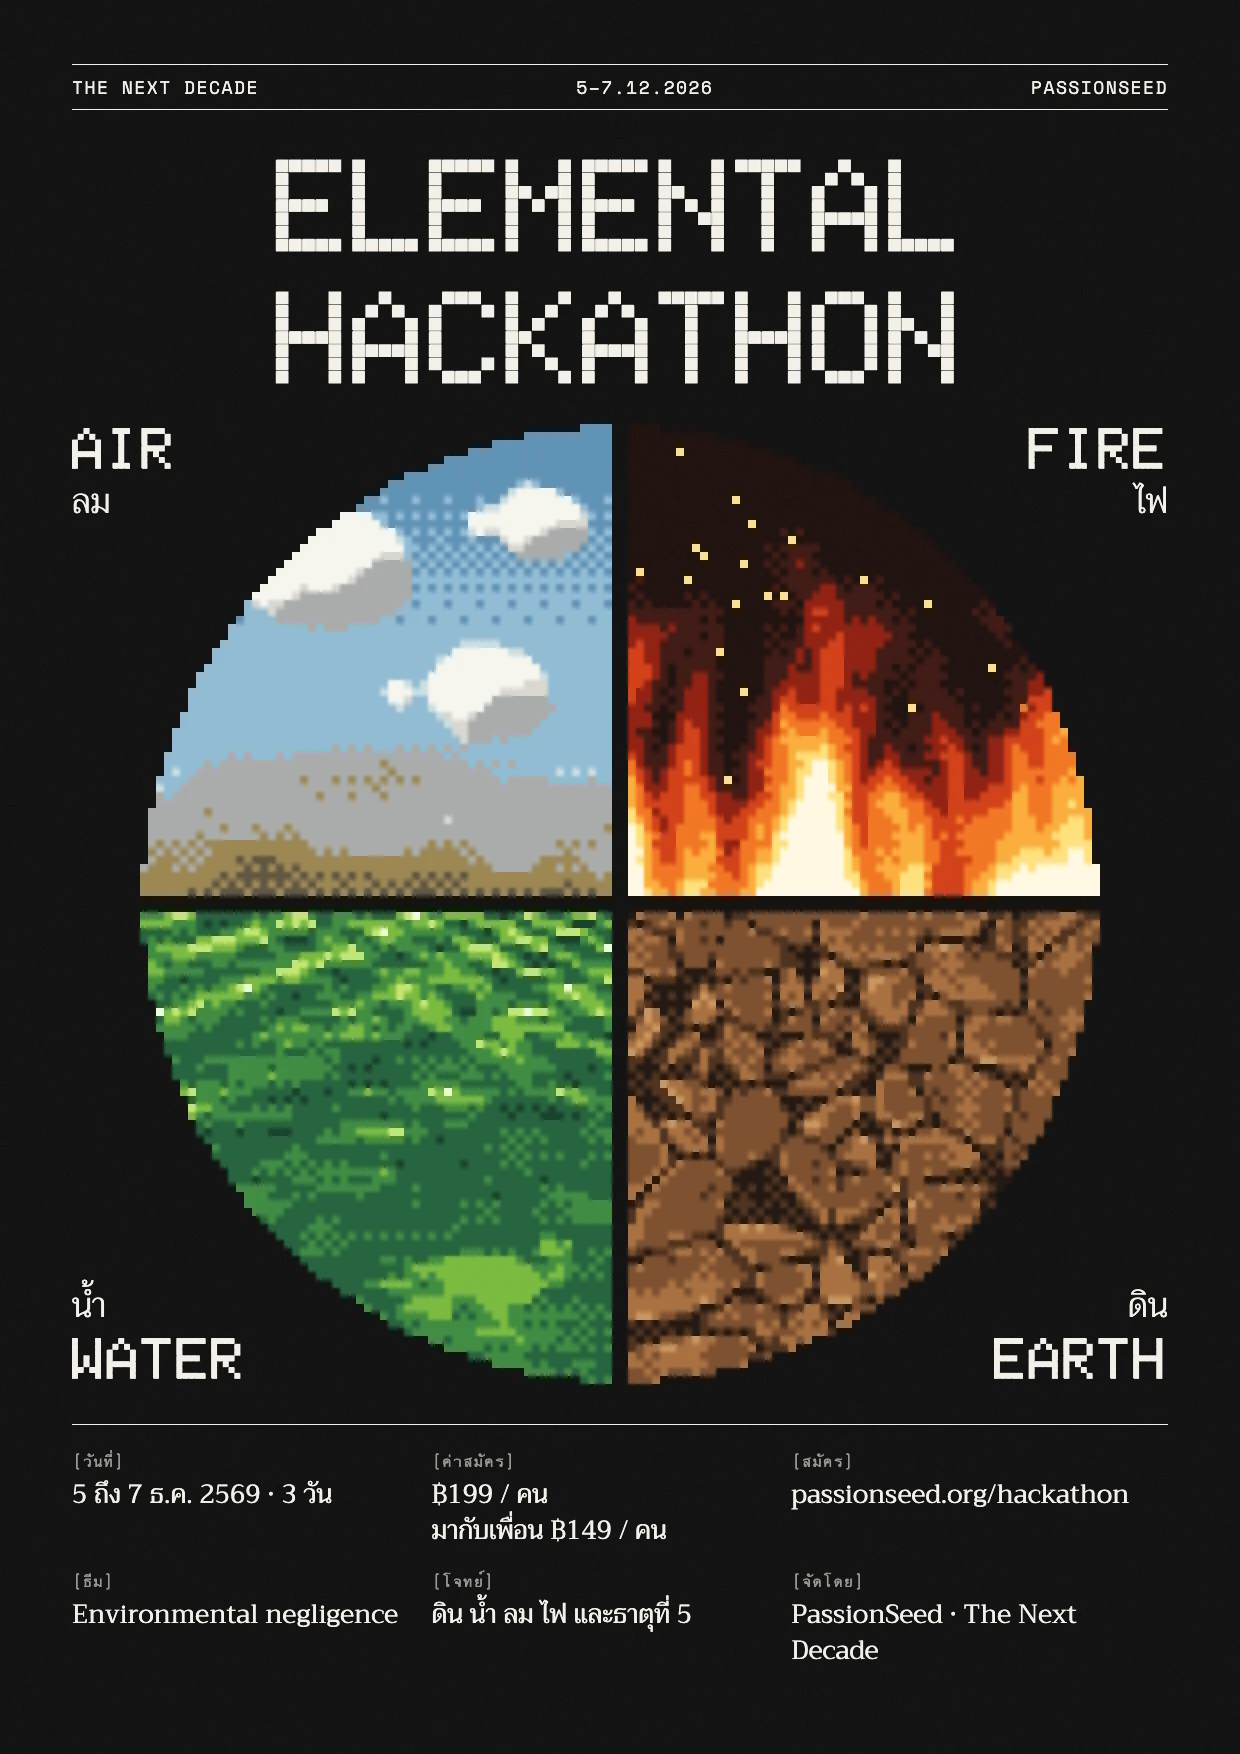
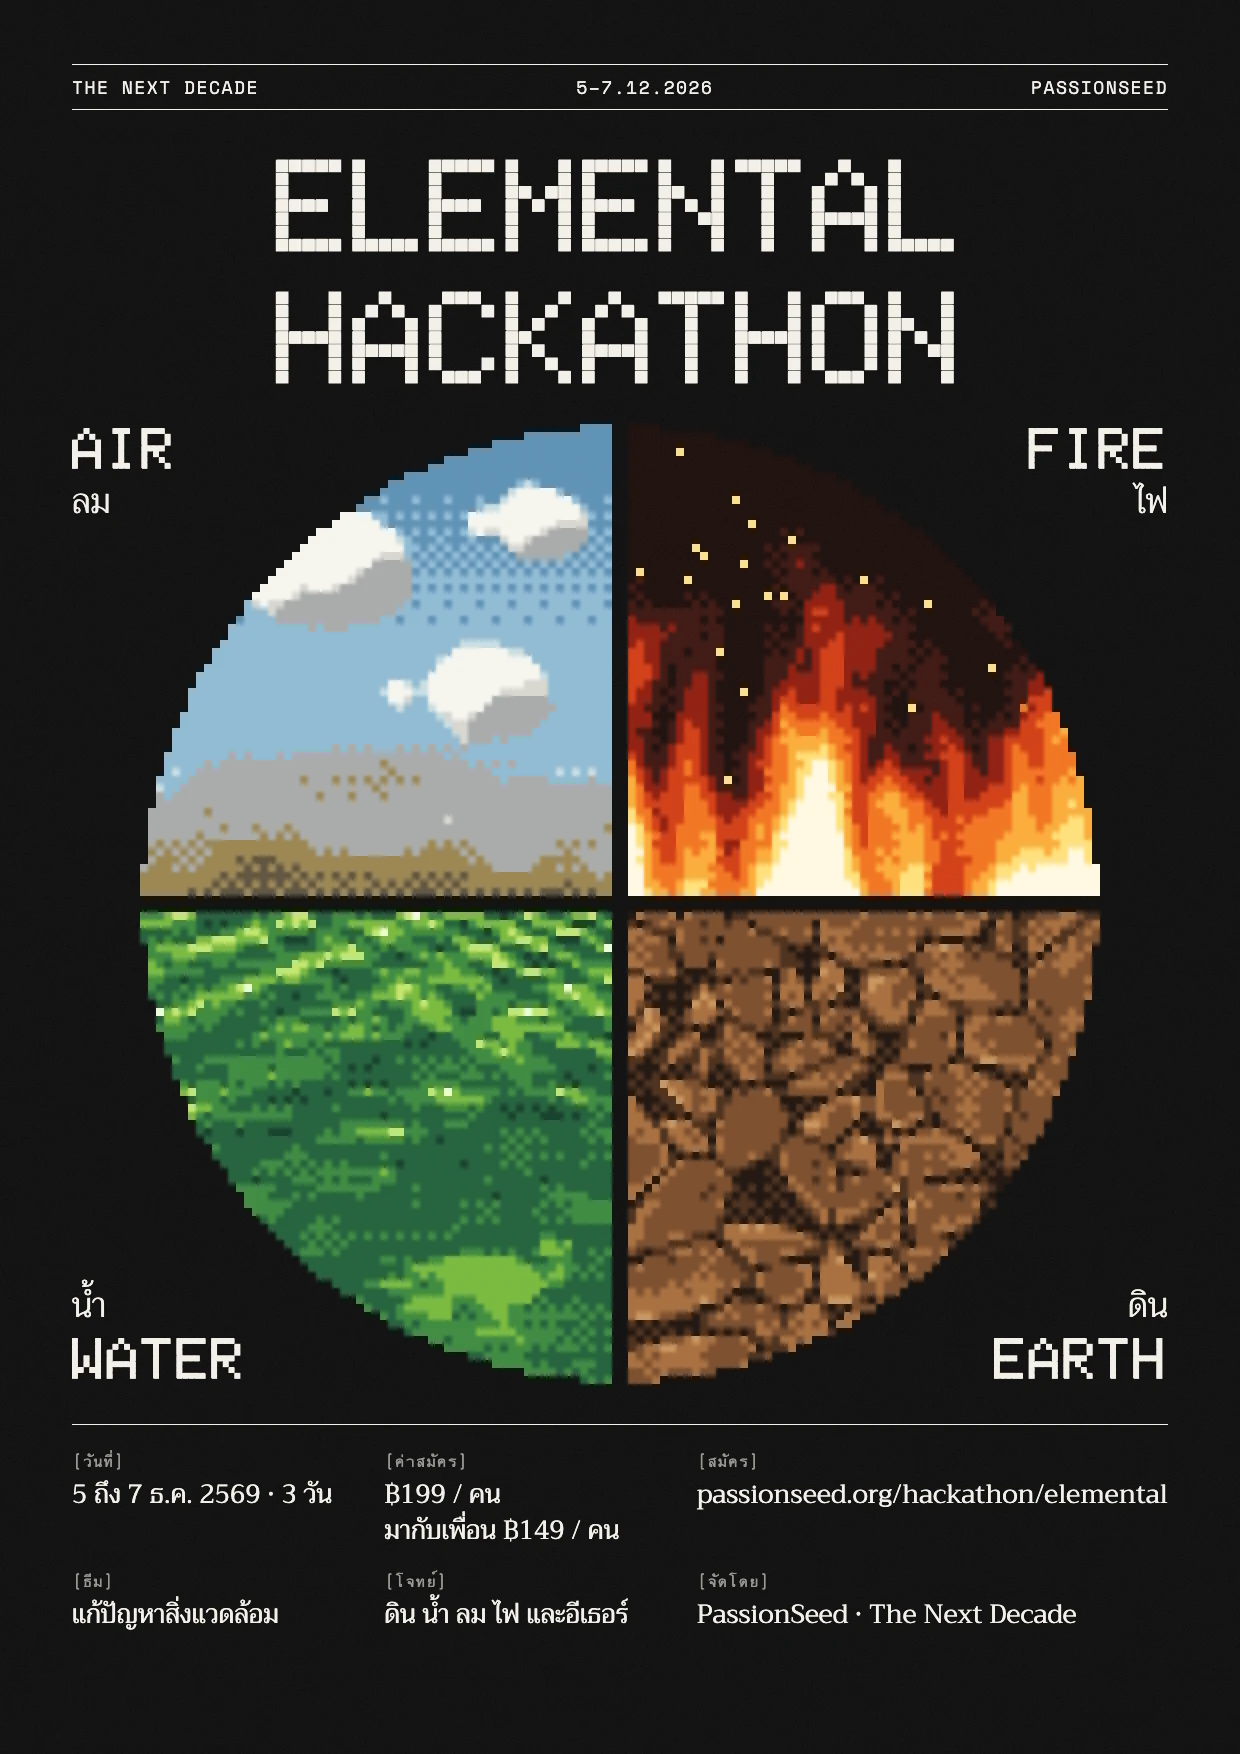
Elemental: the fifth element is อีเธอร์, and the sponsor deck pitches fixing the environment (#385)
* Slide 2: the element prize line reads 5 รางวัลสำหรับผู้ชนะแต่ละธาตุ

Angpao, 2026-11-24. The count comes from the five elements in facts.ts.
The prize list sits 10px closer to the total so the longer line fits the
margin.

* Elemental: the fifth element is อีเธอร์, and the pitch is about fixing the environment

Angpao, 2026-11-24:
- "always use อีเธอร์": the fifth element's Thai name, replacing
  ธาตุที่มองไม่เห็น (Big, 2026-11-21), in facts.ts, the hackathon page, the
  sponsor deck, slide 2 and the A4 poster.
- "the problem is not about human or corporate make env worst just about
  fixing the environment": the sponsor deck's theme sentence says so, its
  examples name the problem and not who caused it, and the printed theme
  is แก้ปัญหาสิ่งแวดล้อม instead of Environmental negligence.
- "add vector to page 10": the benefits page gets three pixel drawings of
  where a sponsor's logo shows up: poster, slides, report.

---------

Changed region(s): [[0.3065, 0.8312, 0.8581, 0.9544], [0.5516, 0.8312, 0.95, 0.862], [0.0613, 0.8928, 0.2758, 0.9236]]

diff --git a/components/hackathon/elemental/sponsor/SponsorDeck.tsx b/components/hackathon/elemental/sponsor/SponsorDeck.tsx
@@ -4,7 +4,7 @@ import type { ReactNode } from "react";
 import { EL, EL_FONT } from "@/components/hackathon/poster/elemental/brand";
 import { ELEMENTAL, prizeTotal, thaiDayRange } from "@/components/hackathon/poster/elemental/facts";
 
-import { PixelArrow, PixelIcon, type IconName } from "./DeckArt";
+import { BenefitsArt, PixelArrow, PixelIcon, type IconName } from "./DeckArt";
 import { DeckEditor } from "./DeckEditor";
 import { PrintButton } from "./PrintButton";
 
@@ -163,11 +163,14 @@ function BenefitLabel({ icon, children }: { icon: IconName; children: ReactNode 
  * list: teams pick any problem of that kind (Angpao, 2026-11-20: e.g. fire
  * covers fire hazards in a factory or a bar). Kinds of harm and most examples:
  * private/hackathon-elemental-theme-and-rules.md.
+ * The examples name the problem, not who caused it: the hackathon is about
+ * fixing the environment, not about people or companies making it worse
+ * (Angpao, 2026-11-24).
  */
 const ELEMENTS: { key: "water" | "earth" | "air" | "fire" | "aether"; kind: string; examples: string }[] = [
-  { key: "earth", kind: "ภัยจากขยะ ดิน และสารพิษ", examples: "เช่น ขยะอิเล็กทรอนิกส์ การลักลอบทิ้งหรือฝังกลบขยะ สารเคมีตกค้างในพื้นที่เกษตร ขยะที่ไม่ได้คัดแยก" },
-  { key: "water", kind: "ภัยในแหล่งน้ำ", examples: "เช่น น้ำเสียจากโรงงาน สารปนเปื้อนในแม่น้ำ ไมโครพลาสติก น้ำที่คนใช้ดื่มและทำเกษตร" },
-  { key: "air", kind: "ภัยในอากาศที่เราหายใจ", examples: "เช่น ฝุ่น PM2.5 ควันจากการเผาในที่โล่ง ไอเสียจากโรงงานใกล้บ้าน การปล่อยคาร์บอน" },
+  { key: "earth", kind: "ภัยจากขยะ ดิน และสารพิษ", examples: "เช่น ขยะอิเล็กทรอนิกส์ สารเคมีตกค้างในพื้นที่เกษตร ขยะที่ไม่ได้คัดแยก" },
+  { key: "water", kind: "ภัยในแหล่งน้ำ", examples: "เช่น น้ำเสีย สารปนเปื้อนในแม่น้ำ ไมโครพลาสติก น้ำที่คนใช้ดื่มและทำเกษตร" },
+  { key: "air", kind: "ภัยในอากาศที่เราหายใจ", examples: "เช่น ฝุ่น PM2.5 ควันจากการเผาในที่โล่ง ไอเสีย การปล่อยคาร์บอน" },
   { key: "fire", kind: "ภัยจากไฟและความร้อน", examples: "เช่น อัคคีภัยในโรงงาน ผับบาร์ หรืออาคาร โกดังเก็บสารเคมี การเผาไร่และป่า" },
   { key: "aether", kind: "ภัยจาก AI โซเชียล และเทคโนโลยี", examples: "เช่น แอปที่ออกแบบให้เลื่อนไม่หยุด ข่าวปลอมและคลิป AI ดีปเฟก พลังงานที่ AI ใช้" },
 ];
@@ -350,7 +353,7 @@ export function SponsorDeck() {
               </span>
             </h1>
             <p className="m-0 mt-2 text-[24px] sm:text-[32px]" style={{ fontFamily: EL_FONT.display, fontWeight: 300 }}>
-              ดิน · น้ำ · ลม · ไฟ · ธาตุที่มองไม่เห็น
+              ดิน · น้ำ · ลม · ไฟ · อีเธอร์
             </p>
           </div>
 
@@ -432,7 +435,7 @@ export function SponsorDeck() {
         <Tag n="02 TRACKS" />
         <H2>หัวข้อการแข่งขัน: 5 ธาตุ</H2>
         <Body>
-          หัวข้อหลักคือ Environmental negligence: ธุรกิจที่ละเลยจนทำร้ายสิ่งแวดล้อมและผู้คน เราแบ่งปัญหาออกเป็น 5 ธาตุ ตัวอย่างด้านล่างเป็นแค่จุดเริ่มต้น
+          หัวข้อหลักคือการแก้ปัญหาสิ่งแวดล้อม เราแบ่งปัญหาออกเป็น 5 ธาตุ ตัวอย่างด้านล่างเป็นแค่จุดเริ่มต้น
           ทีมเลือกปัญหาใดก็ได้ในธาตุนั้น หรือรวมหลายธาตุ แล้วพัฒนาผลงานที่ช่วยคนจริงอย่างน้อย 1 คน
         </Body>
         <div className="mt-8 grid grid-cols-2 gap-4 sm:grid-cols-5">
@@ -772,7 +775,13 @@ export function SponsorDeck() {
       {/* 09 Benefits */}
       <Section id="benefits" tone="paper">
         <Tag n="09 BENEFITS" light />
-        <H2>สิทธิประโยชน์ของผู้สนับสนุน</H2>
+        <div className="relative">
+          <H2>สิทธิประโยชน์ของผู้สนับสนุน</H2>
+          {/* Where a sponsor's logo shows up: poster, slides, report (Angpao, 2026-11-24: "add vector to page 10"). */}
+          <div className="absolute bottom-0 right-0 hidden sm:block">
+            <BenefitsArt />
+          </div>
+        </div>
         <div className="mt-8 grid grid-cols-2 gap-6 md:grid-cols-4">
           <Stat light big={IG.followers} label="ผู้ติดตาม Instagram ของ PassionSeed" icon={<PixelIcon name="people" color={EL.ink} size={30} />} />
           <Stat light big={IG.reach} label="บัญชีที่เห็นโพสต์ของเราใน 30 วัน" icon={<PixelIcon name="eye" color={EL.ink} size={30} />} />

diff --git a/components/hackathon/elemental/sponsor/DeckArt.tsx b/components/hackathon/elemental/sponsor/DeckArt.tsx
@@ -1,3 +1,5 @@
+import { EL } from "@/components/hackathon/poster/elemental/brand";
+
 /**
  * Small pixel-art icons for the sponsor deck, drawn as SVG squares so they
  * stay sharp in print and match the key visual's pixel look.
@@ -65,6 +67,88 @@ export function PixelArrow({ color, size = 18 }: { color: string; size?: number 
   return (
     <svg width={size} height={size} viewBox="0 0 5 5" aria-hidden="true" shapeRendering="crispEdges" style={{ display: "block" }}>
       {rows.flatMap((row, y) => Array.from(row).map((c, x) => (c === "#" ? <rect key={`${x}-${y}`} x={x} y={y} width={1} height={1} fill={color} /> : null)))}
+    </svg>
+  );
+}
+
+/**
+ * Where a sponsor's logo shows up, as three pixel drawings: the poster
+ * before the event, the slides during it, the report after it. The coloured
+ * block in each is the logo, in the three package colours.
+ */
+const BENEFIT_POSTER = [
+  "################",
+  "#..............#",
+  "#..........y...#",
+  "#.........yy...#",
+  "#.........oy...#",
+  "#........ooo...#",
+  "#........ooo...#",
+  "#....s.........#",
+  "#...sss........#",
+  "#..sssss...s...#",
+  "#.sssssss.sss..#",
+  "#ssssssssssssss#",
+  "#..............#",
+  "#.#######......#",
+  "#.#####........#",
+  "#..............#",
+  "#.oooooooooooo.#",
+  "#.oooooooooooo.#",
+  "#.oooooooooooo.#",
+  "#..............#",
+  "################",
+];
+const BENEFIT_SCREEN = [
+  "##########################",
+  "#........................#",
+  "#.########...............#",
+  "#.######.................#",
+  "#........................#",
+  "#.############...gggggg..#",
+  "#.##########.....gggggg..#",
+  "#.########.......gggggg..#",
+  "#................gggggg..#",
+  "#........................#",
+  "##########################",
+  "...........####...........",
+  "...........####...........",
+  "........##########........",
+];
+const BENEFIT_REPORT = [
+  "################",
+  "#..............#",
+  "#.##########...#",
+  "#.#######......#",
+  "#..............#",
+  "#.......#......#",
+  "#....#..#..#...#",
+  "#.#..#..#..#...#",
+  "#.#..#..#..#...#",
+  "#.##########...#",
+  "#..............#",
+  "#.cccccc....yy.#",
+  "#.cccccc...yyyy#",
+  "#.cccccc....yy.#",
+  "#..............#",
+  "################",
+];
+const BENEFIT_ARROW = ["..#..", "...#.", "#####", "...#.", "..#.."];
+
+export function BenefitsArt({ cell = 5 }: { cell?: number }) {
+  const fill: Record<string, string> = { "#": EL.ink, s: "rgba(29,33,31,0.38)", o: EL.flame, y: EL.toxicYellow, g: EL.toxicGreen, c: EL.toxicCyan, a: "rgba(29,33,31,0.5)" };
+  const arrow = BENEFIT_ARROW.map((r) => r.replace(/#/g, "a"));
+  // Each drawing stands on the same baseline, with an arrow between them.
+  const parts: [readonly string[], number][] = [[BENEFIT_POSTER, 0], [arrow, 19], [BENEFIT_SCREEN, 27], [arrow, 56], [BENEFIT_REPORT, 64]];
+  const height = BENEFIT_POSTER.length;
+  const width = 80;
+  return (
+    <svg width={width * cell} height={height * cell} viewBox={`0 0 ${width} ${height}`} aria-hidden="true" shapeRendering="crispEdges" style={{ display: "block" }}>
+      {parts.flatMap(([rows, x0], p) => {
+        // Arrows sit at mid height; everything else stands on the bottom line.
+        const y0 = rows.length === 5 ? Math.round((height - 5) / 2) : height - rows.length;
+        return rows.flatMap((row, y) => Array.from(row).map((c, x) => (fill[c] ? <rect key={`${p}-${x}-${y}`} x={x0 + x} y={y0 + y} width={1} height={1} fill={fill[c]} /> : null)));
+      })}
     </svg>
   );
 }

diff --git a/components/hackathon/poster/elemental/info/ElementalInfoPoster.tsx b/components/hackathon/poster/elemental/info/ElementalInfoPoster.tsx
@@ -188,7 +188,7 @@ export function ElementalInfoPoster({ id = "elemental-info" }: { id?: string }) 
         </div>
 
         {/* The prize, as on slide 1 (trophy, the number in yellow), then who gets what. */}
-        <div style={{ marginTop: 20, display: "flex", alignItems: "center", gap: 24, borderTop: `1px solid rgba(243,239,230,0.28)`, borderBottom: `1px solid rgba(243,239,230,0.28)`, padding: "10px 0" }}>
+        <div style={{ marginTop: 20, display: "flex", alignItems: "center", gap: 14, borderTop: `1px solid rgba(243,239,230,0.28)`, borderBottom: `1px solid rgba(243,239,230,0.28)`, padding: "10px 0" }}>
           <div style={{ display: "flex", alignItems: "center", gap: 14, flex: "none" }}>
             <Trophy cell={6} />
             <span style={{ fontFamily: EL_FONT.display, fontWeight: 300, fontSize: 84, lineHeight: "88px", letterSpacing: "-0.01em", color: HIGHLIGHT }}>{prizeTotal()}</span>
@@ -205,9 +205,9 @@ export function ElementalInfoPoster({ id = "elemental-info" }: { id?: string }) 
                 <span style={{ whiteSpace: "nowrap" }}>{[p.cashBaht ? `เงินสด ${baht(p.cashBaht)}` : null, `เครดิต Claude ${baht(p.creditBaht)}`].filter(Boolean).join(" + ")}</span>
               </Fragment>
             ))}
-            {/* The winner of each element, under "ที่ 3" (Angpao, 2026-11-24: "winner in each track get 500 bath claude credit", a track being an element; "put it under ที่ 3 make space for it"). */}
+            {/* The winner of each element, under "ที่ 3" (Angpao, 2026-11-24: "winner in each track get 500 bath claude credit", a track being an element; "put it under ที่ 3 make space for it"; then the wording "5 รางวัลสำหรับผู้ชนะแต่ละธาตุ"). */}
             <span style={{ gridColumn: "1 / -1", whiteSpace: "nowrap" }}>
-              <span style={{ fontWeight: 400, color: HIGHLIGHT }}>ผู้ชนะแต่ละธาตุ</span> เครดิต Claude {baht(ELEMENTAL.elementPrizeCreditBaht)}
+              <span style={{ fontWeight: 400, color: HIGHLIGHT }}>{ELEMENTAL.elements.length} รางวัลสำหรับผู้ชนะแต่ละธาตุ</span> เครดิต Claude {baht(ELEMENTAL.elementPrizeCreditBaht)}
             </span>
           </div>
         </div>

diff --git a/components/hackathon/poster/elemental/facts.ts b/components/hackathon/poster/elemental/facts.ts
@@ -9,9 +9,9 @@ import { formatThaiDate } from "@/lib/content/shift-cohort";
  *   ฿149 a person with others (company-brain numbers.md).
  * - Elements and theme: private/hackathon-december-2026.md (PR #87) and
  *   Angpao, 2026-11-19 (Aether is the fifth element).
- * - Aether's Thai name and scope: ธาตุที่มองไม่เห็น, covering AI, social
- *   media and the harms of tech we don't notice (Big, 2026-11-21). It
- *   replaces ธาตุที่ 5 and อีเธอร์.
+ * - Aether's Thai name: อีเธอร์, always (Angpao, 2026-11-24; it replaces
+ *   ธาตุที่มองไม่เห็น, Big, 2026-11-21). Its scope is unchanged: AI, social
+ *   media and the harms of tech we don't notice (Big, 2026-11-21).
  * - Prize total: told by Angpao, 2026-11-19. The three prizes: Angpao,
  *   2026-11-21 (company-brain numbers.md). Changed by Angpao, 2026-11-24:
  *   the Claude credit drops to 3,000 / 2,500 / 2,000, and the winner of
@@ -49,7 +49,12 @@ export const ELEMENTAL = {
   elementPrizeCreditBaht: 500,
   /** Who can join: school years, from anywhere in Thailand. */
   gradesTh: "ม.3–ม.6",
-  theme: "Environmental negligence",
+  /**
+   * The theme, as printed. The hackathon is about fixing the environment,
+   * not about who made it worse (Angpao, 2026-11-24; it replaces
+   * "Environmental negligence").
+   */
+  theme: "แก้ปัญหาสิ่งแวดล้อม",
   /** The permanent link. /hackathon redirects here while Elemental is current. */
   url: "passionseed.org/hackathon/elemental",
   /** Database key for registrations. */
@@ -87,7 +92,7 @@ export const ELEMENTAL = {
     { key: "earth", en: "Earth", th: "ดิน" },
     { key: "air", en: "Air", th: "ลม" },
     { key: "fire", en: "Fire", th: "ไฟ" },
-    { key: "aether", en: "Aether", th: "ธาตุที่มองไม่เห็น" },
+    { key: "aether", en: "Aether", th: "อีเธอร์" },
   ],
 } as const;
 

diff --git a/components/hackathon/elemental/media.ts b/components/hackathon/elemental/media.ts
@@ -109,7 +109,7 @@ export const ELEMENT_CHAPTERS: readonly ElementChapter[] = [
   {
     key: "aether",
     en: "Aether",
-    th: "ธาตุที่มองไม่เห็น",
+    th: "อีเธอร์",
     subtitleTh: "AI โซเชียล และเทคที่ทำร้ายเราแบบไม่รู้ตัว",
     whatHappensTh: "ดาต้าเซ็นเตอร์ขนาดยักษ์ผุดขึ้น ดึงไฟจากสายส่งจนแสงสีม่วงแล่นผ่านและทุ่งนาแห้งเหือด",
     examplesTh: "แอปที่ออกแบบให้เลื่อนไม่หยุด · ข่าวปลอมและคลิป AI · ดีปเฟก · พลังงานที่ AI ใช้",

diff --git a/components/hackathon/poster/elemental/a4/ElementalA4Poster.tsx b/components/hackathon/poster/elemental/a4/ElementalA4Poster.tsx
@@ -123,7 +123,7 @@ export function ElementalA4Poster({ id = "elemental-a4" }: { id?: string }) {
         </Info>
         <Info tag="[สมัคร]">{ELEMENTAL.url}</Info>
         <Info tag="[ธีม]">{ELEMENTAL.theme}</Info>
-        <Info tag="[โจทย์]">ดิน น้ำ ลม ไฟ และธาตุที่มองไม่เห็น</Info>
+        <Info tag="[โจทย์]">ดิน น้ำ ลม ไฟ และอีเธอร์</Info>
         <Info tag="[จัดโดย]">PassionSeed · {ELEMENTAL.series}</Info>
       </div>
 
